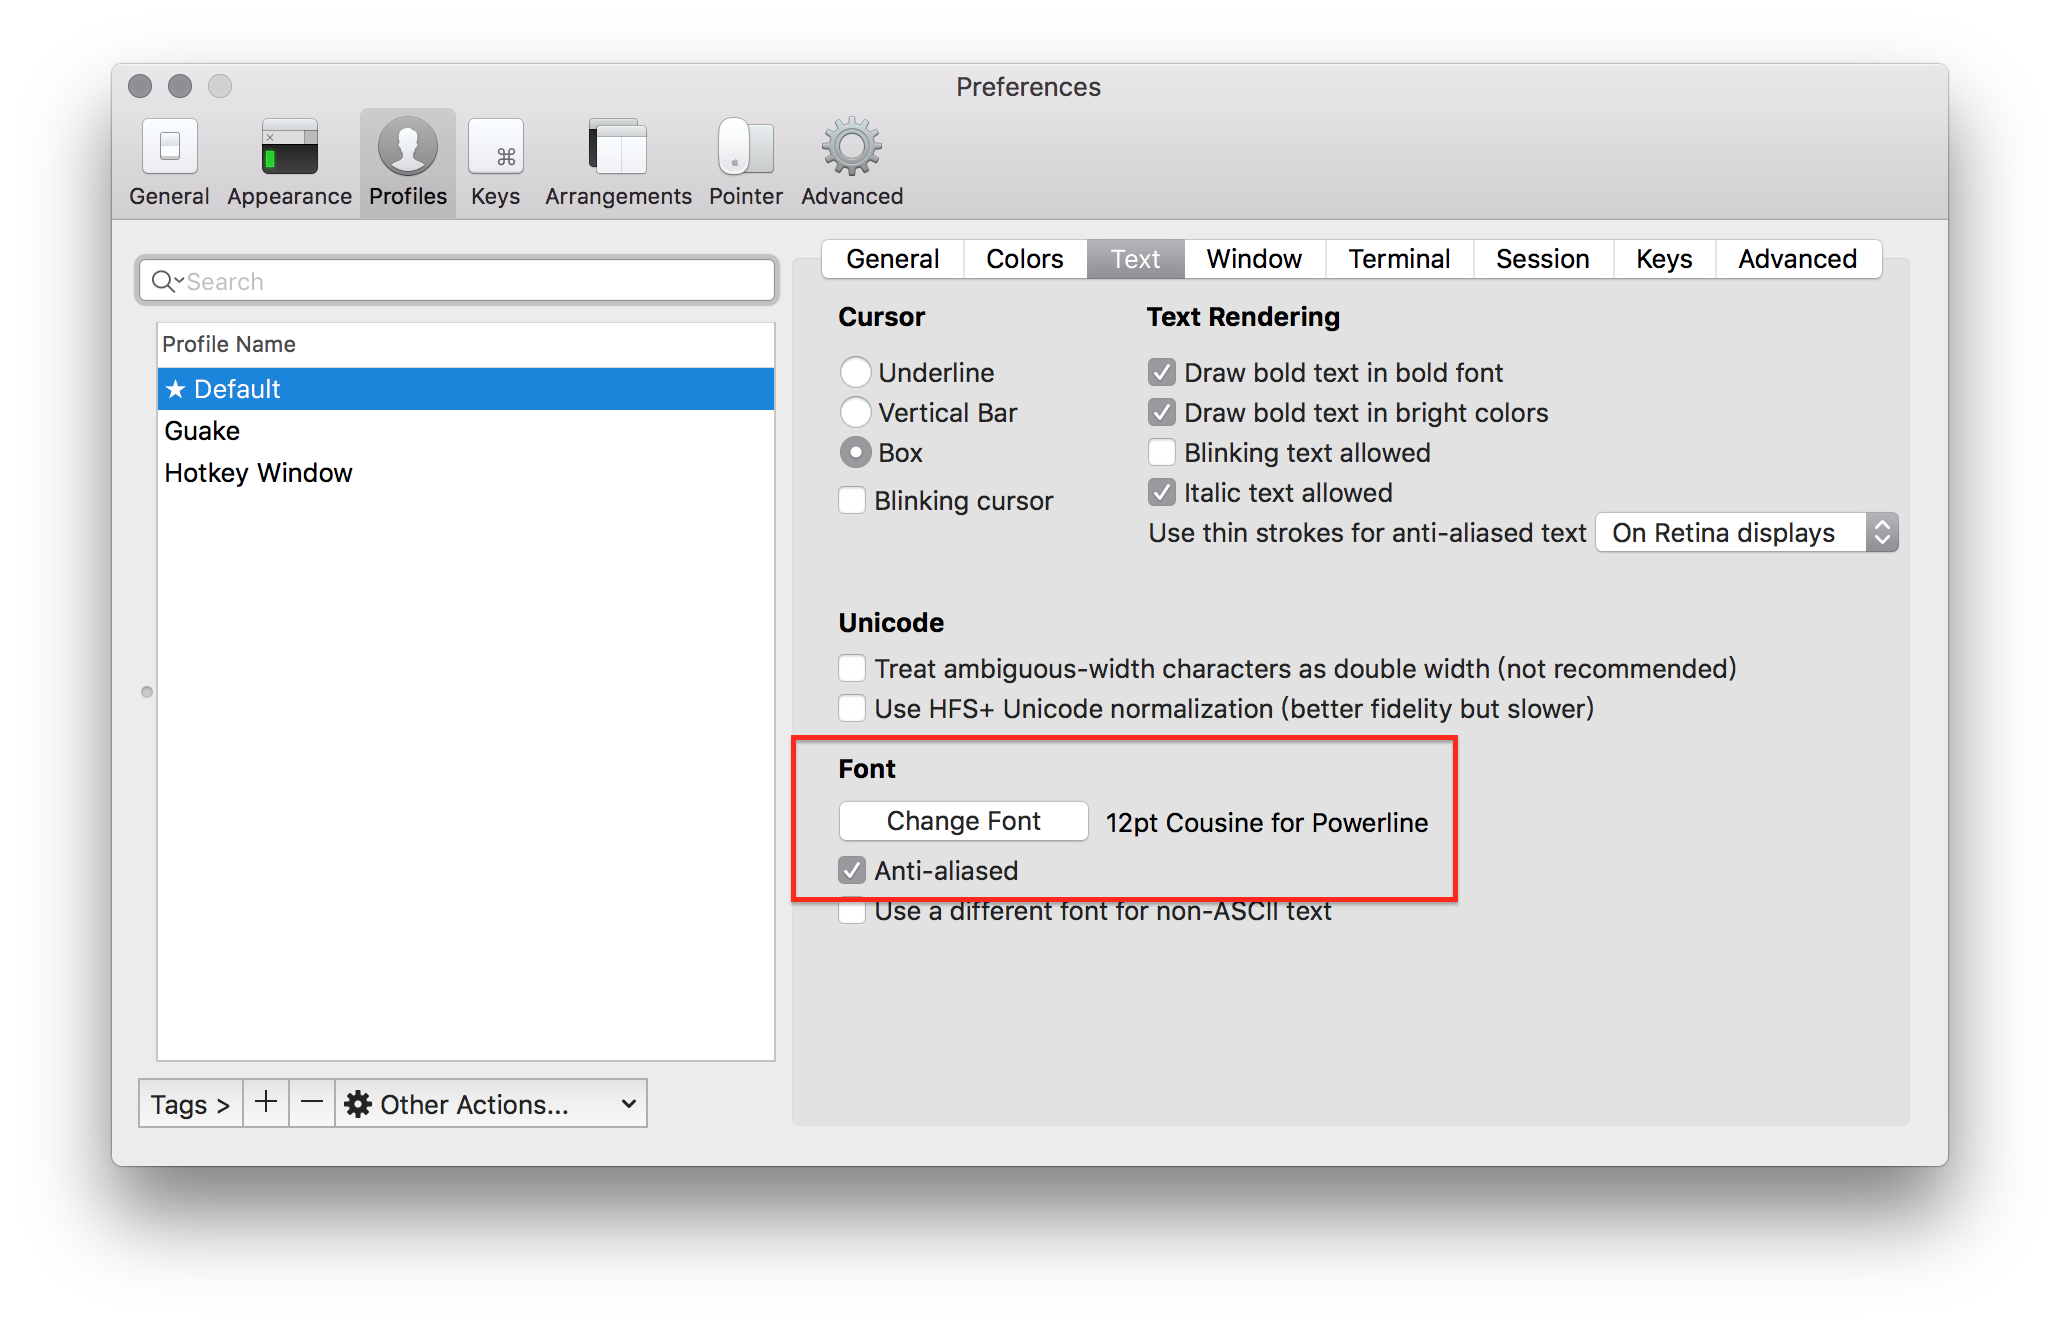
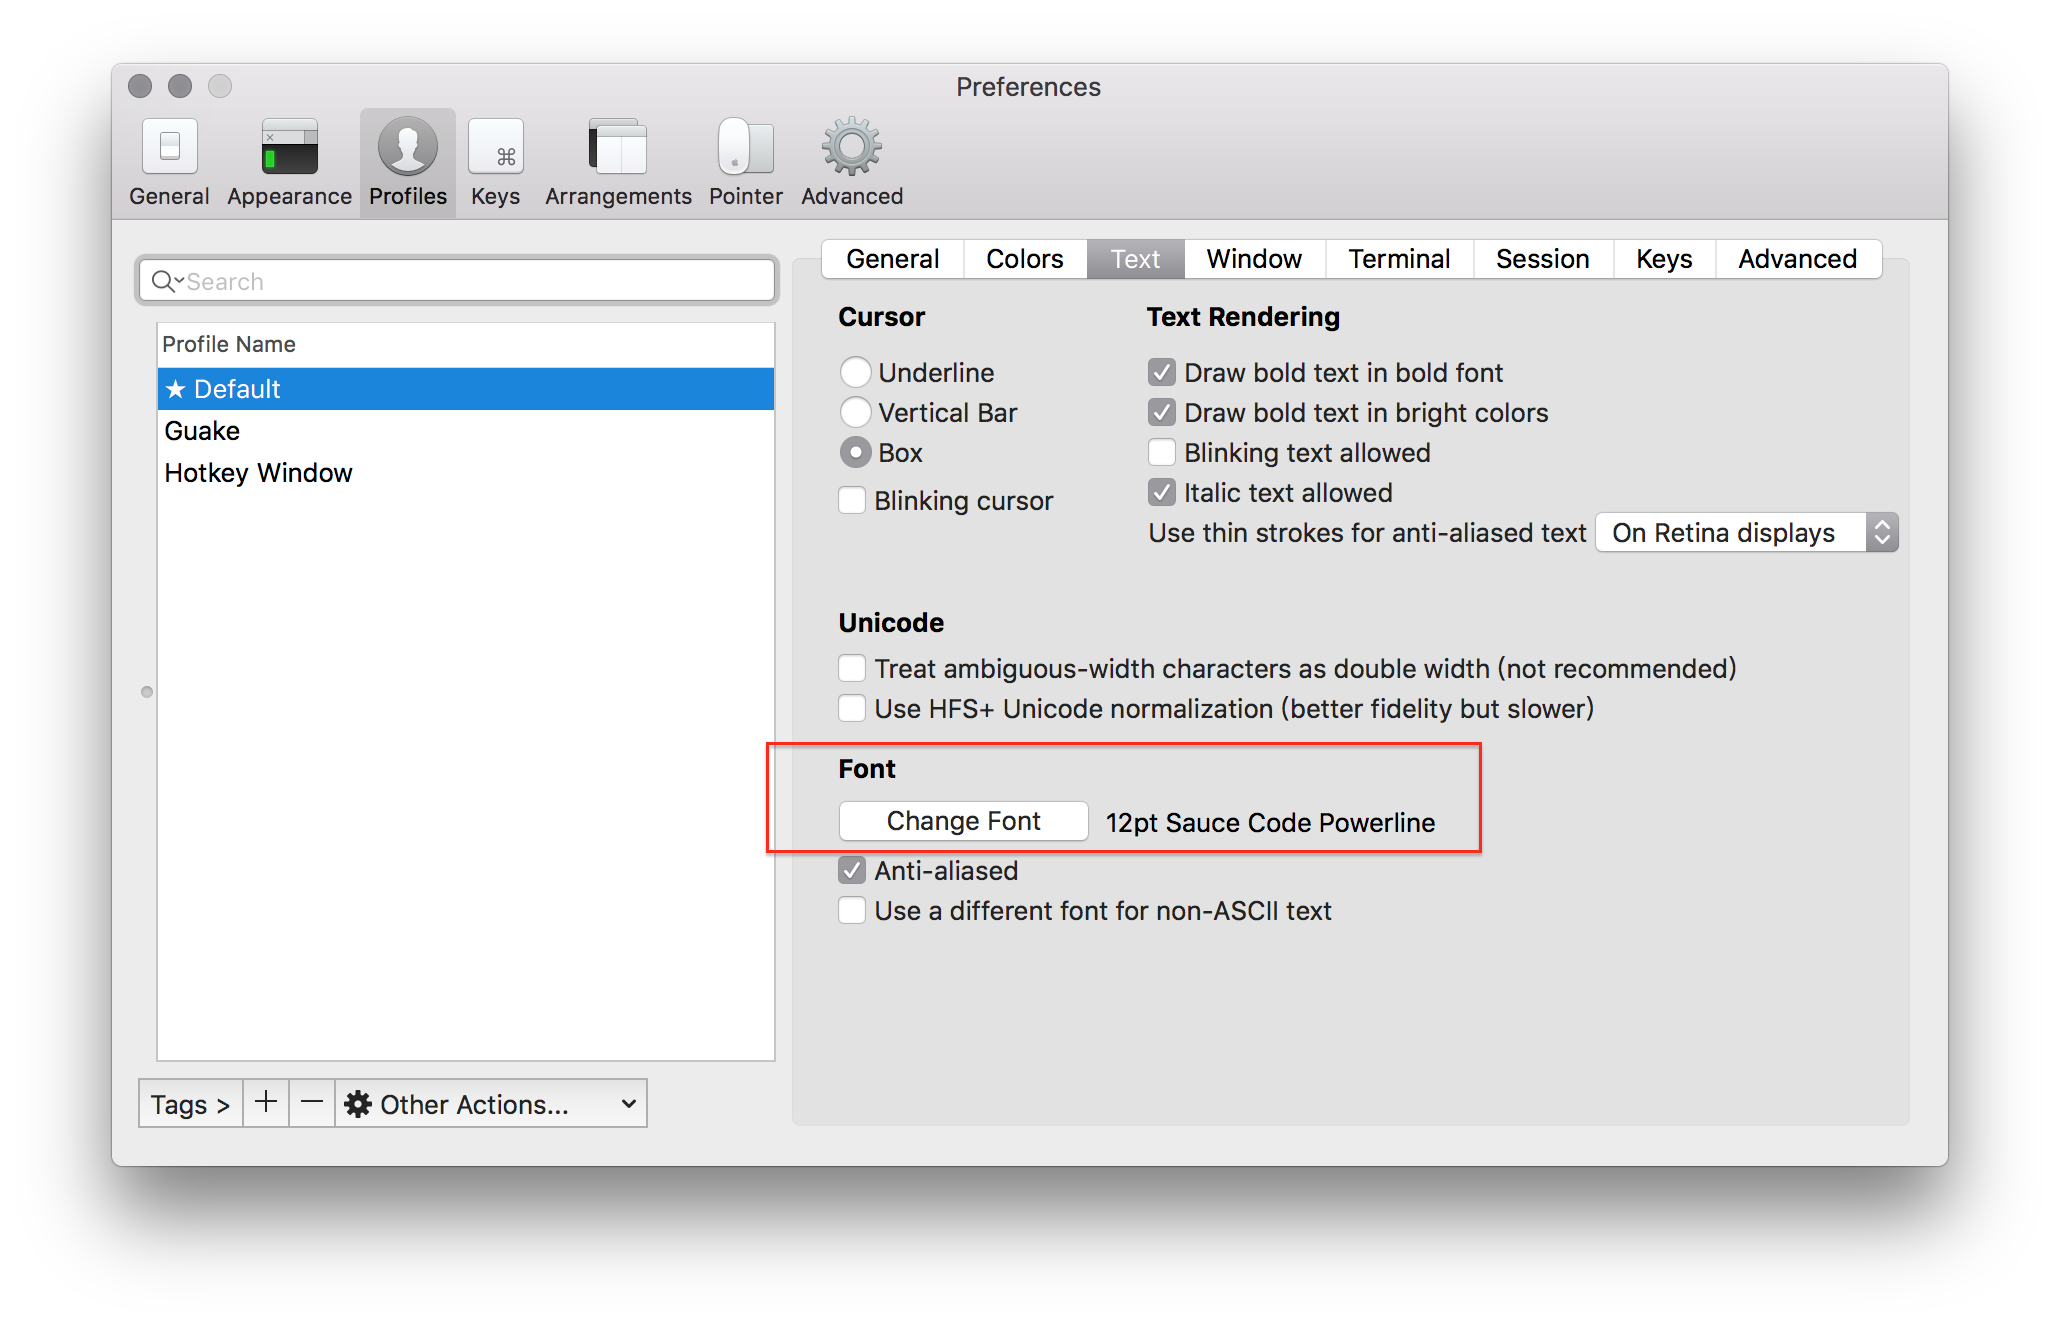
:memo: :bug: Update README.md, robust checking for startify (see #55).

Changed region(s): [[0.3728, 0.5566, 0.7146, 0.6802]]

diff --git a/README.md b/README.md
@@ -73,7 +73,10 @@ If you have been a vimmer for quite a while, just pick out the part you are inte
 
 ## Install
 
-You have to satisfy some prerequisites at first: vim with `+python` or `+python3` feature, git. The most recent vim version is recommended.
+You have to satisfy some prerequisites at first:
+
+- vim with `+python` or `+python3` feature. If `:echo has('python')` or `:echo has('python3')` returns `1`, then you are done. What's more, the most recent vim version is recommended.
+- git.
 
 :exclamation: ~~When layers enabled at the first time, you need to run `:PlugInstall` to install relevant plugins~~.
 
@@ -120,8 +123,13 @@ Not tested now.
     # for neovim
     ln -s ~/.space-vim/init.vim ~/.config/nvim/init.vim
     ```
+4. (Optional) Install the [Source Code Pro](https://github.com/adobe-fonts/source-code-pro) or [Powerline](https://github.com/powerline/fonts) font.
 
-4. Open vim, then space-vim will automatically install the missing plugins in enabled layers.
+    If you are running in terminal you'll need to change font settings of your terminal as well.
+
+    ![iterm2_font_setting](docs/img/iterm2_powerline_setting.png)
+
+5. Open vim, then space-vim will automatically install the missing plugins in enabled layers.
 
 ## Customize
 
